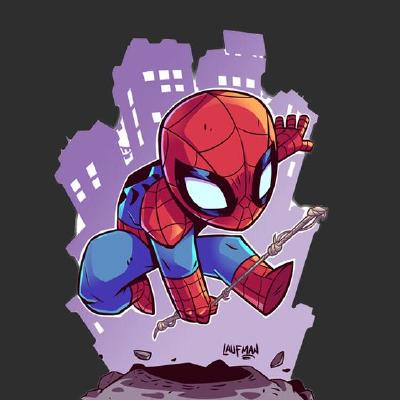
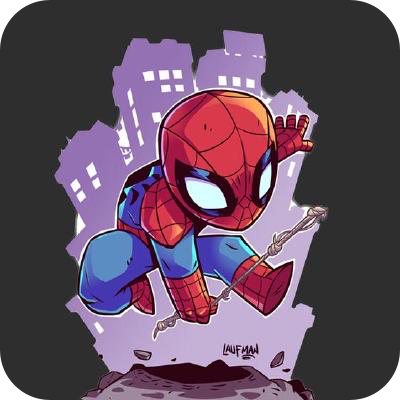
Site updated: 2018-12-18 21:32:00

diff --git a/2018/12/15/hello-world/index.html b/2018/12/15/hello-world/index.html
@@ -53,13 +53,13 @@
 <link href="/css/main.css?v=5.1.4" rel="stylesheet" type="text/css">
 
 
-  <link rel="apple-touch-icon" sizes="180x180" href="/images/riversea2015.png?v=5.1.4">
+  <link rel="apple-touch-icon" sizes="180x180" href="/images/riversea2015_corner.png?v=5.1.4">
 
 
-  <link rel="icon" type="image/png" sizes="32x32" href="/images/riversea2015.png?v=5.1.4">
+  <link rel="icon" type="image/png" sizes="32x32" href="/images/riversea2015_corner.png?v=5.1.4">
 
 
-  <link rel="icon" type="image/png" sizes="16x16" href="/images/riversea2015.png?v=5.1.4">
+  <link rel="icon" type="image/png" sizes="16x16" href="/images/riversea2015_corner.png?v=5.1.4">
 
 
 

diff --git a/2018/12/16/MBProgressHUD-源码学习笔记/index.html b/2018/12/16/MBProgressHUD-源码学习笔记/index.html
@@ -53,13 +53,13 @@
 <link href="/css/main.css?v=5.1.4" rel="stylesheet" type="text/css">
 
 
-  <link rel="apple-touch-icon" sizes="180x180" href="/images/riversea2015.png?v=5.1.4">
+  <link rel="apple-touch-icon" sizes="180x180" href="/images/riversea2015_corner.png?v=5.1.4">
 
 
-  <link rel="icon" type="image/png" sizes="32x32" href="/images/riversea2015.png?v=5.1.4">
+  <link rel="icon" type="image/png" sizes="32x32" href="/images/riversea2015_corner.png?v=5.1.4">
 
 
-  <link rel="icon" type="image/png" sizes="16x16" href="/images/riversea2015.png?v=5.1.4">
+  <link rel="icon" type="image/png" sizes="16x16" href="/images/riversea2015_corner.png?v=5.1.4">
 
 
 

diff --git a/2018/12/16/SDWebImage-源码学习笔记·前传-☞-升级-4-x-x-后适配-WebP-GIF/index.html b/2018/12/16/SDWebImage-源码学习笔记·前传-☞-升级-4-x-x-后适配-WebP-GIF/index.html
@@ -53,13 +53,13 @@
 <link href="/css/main.css?v=5.1.4" rel="stylesheet" type="text/css">
 
 
-  <link rel="apple-touch-icon" sizes="180x180" href="/images/riversea2015.png?v=5.1.4">
+  <link rel="apple-touch-icon" sizes="180x180" href="/images/riversea2015_corner.png?v=5.1.4">
 
 
-  <link rel="icon" type="image/png" sizes="32x32" href="/images/riversea2015.png?v=5.1.4">
+  <link rel="icon" type="image/png" sizes="32x32" href="/images/riversea2015_corner.png?v=5.1.4">
 
 
-  <link rel="icon" type="image/png" sizes="16x16" href="/images/riversea2015.png?v=5.1.4">
+  <link rel="icon" type="image/png" sizes="16x16" href="/images/riversea2015_corner.png?v=5.1.4">
 
 
 

diff --git a/2018/12/16/SDWebImage源码学习笔记-☞-SDImageCache/index.html b/2018/12/16/SDWebImage源码学习笔记-☞-SDImageCache/index.html
@@ -53,13 +53,13 @@
 <link href="/css/main.css?v=5.1.4" rel="stylesheet" type="text/css">
 
 
-  <link rel="apple-touch-icon" sizes="180x180" href="/images/riversea2015.png?v=5.1.4">
+  <link rel="apple-touch-icon" sizes="180x180" href="/images/riversea2015_corner.png?v=5.1.4">
 
 
-  <link rel="icon" type="image/png" sizes="32x32" href="/images/riversea2015.png?v=5.1.4">
+  <link rel="icon" type="image/png" sizes="32x32" href="/images/riversea2015_corner.png?v=5.1.4">
 
 
-  <link rel="icon" type="image/png" sizes="16x16" href="/images/riversea2015.png?v=5.1.4">
+  <link rel="icon" type="image/png" sizes="16x16" href="/images/riversea2015_corner.png?v=5.1.4">
 
 
 

diff --git a/2018/12/16/SDWebImage源码学习笔记-☞-SDWebImageDownloader/index.html b/2018/12/16/SDWebImage源码学习笔记-☞-SDWebImageDownloader/index.html
@@ -53,13 +53,13 @@
 <link href="/css/main.css?v=5.1.4" rel="stylesheet" type="text/css">
 
 
-  <link rel="apple-touch-icon" sizes="180x180" href="/images/riversea2015.png?v=5.1.4">
+  <link rel="apple-touch-icon" sizes="180x180" href="/images/riversea2015_corner.png?v=5.1.4">
 
 
-  <link rel="icon" type="image/png" sizes="32x32" href="/images/riversea2015.png?v=5.1.4">
+  <link rel="icon" type="image/png" sizes="32x32" href="/images/riversea2015_corner.png?v=5.1.4">
 
 
-  <link rel="icon" type="image/png" sizes="16x16" href="/images/riversea2015.png?v=5.1.4">
+  <link rel="icon" type="image/png" sizes="16x16" href="/images/riversea2015_corner.png?v=5.1.4">
 
 
 

diff --git a/2018/12/16/SDWebImage源码学习笔记-☞-SDWebImageManager/index.html b/2018/12/16/SDWebImage源码学习笔记-☞-SDWebImageManager/index.html
@@ -53,13 +53,13 @@
 <link href="/css/main.css?v=5.1.4" rel="stylesheet" type="text/css">
 
 
-  <link rel="apple-touch-icon" sizes="180x180" href="/images/riversea2015.png?v=5.1.4">
+  <link rel="apple-touch-icon" sizes="180x180" href="/images/riversea2015_corner.png?v=5.1.4">
 
 
-  <link rel="icon" type="image/png" sizes="32x32" href="/images/riversea2015.png?v=5.1.4">
+  <link rel="icon" type="image/png" sizes="32x32" href="/images/riversea2015_corner.png?v=5.1.4">
 
 
-  <link rel="icon" type="image/png" sizes="16x16" href="/images/riversea2015.png?v=5.1.4">
+  <link rel="icon" type="image/png" sizes="16x16" href="/images/riversea2015_corner.png?v=5.1.4">
 
 
 

diff --git a/2018/12/16/SDWebImage源码学习笔记-☞-结构及基本流程/index.html b/2018/12/16/SDWebImage源码学习笔记-☞-结构及基本流程/index.html
@@ -53,13 +53,13 @@
 <link href="/css/main.css?v=5.1.4" rel="stylesheet" type="text/css">
 
 
-  <link rel="apple-touch-icon" sizes="180x180" href="/images/riversea2015.png?v=5.1.4">
+  <link rel="apple-touch-icon" sizes="180x180" href="/images/riversea2015_corner.png?v=5.1.4">
 
 
-  <link rel="icon" type="image/png" sizes="32x32" href="/images/riversea2015.png?v=5.1.4">
+  <link rel="icon" type="image/png" sizes="32x32" href="/images/riversea2015_corner.png?v=5.1.4">
 
 
-  <link rel="icon" type="image/png" sizes="16x16" href="/images/riversea2015.png?v=5.1.4">
+  <link rel="icon" type="image/png" sizes="16x16" href="/images/riversea2015_corner.png?v=5.1.4">
 
 
 

diff --git a/2018/12/17/AFNetWorking-源码学习笔记-☞-NSURLSession/index.html b/2018/12/17/AFNetWorking-源码学习笔记-☞-NSURLSession/index.html
@@ -53,13 +53,13 @@
 <link href="/css/main.css?v=5.1.4" rel="stylesheet" type="text/css">
 
 
-  <link rel="apple-touch-icon" sizes="180x180" href="/images/riversea2015.png?v=5.1.4">
+  <link rel="apple-touch-icon" sizes="180x180" href="/images/riversea2015_corner.png?v=5.1.4">
 
 
-  <link rel="icon" type="image/png" sizes="32x32" href="/images/riversea2015.png?v=5.1.4">
+  <link rel="icon" type="image/png" sizes="32x32" href="/images/riversea2015_corner.png?v=5.1.4">
 
 
-  <link rel="icon" type="image/png" sizes="16x16" href="/images/riversea2015.png?v=5.1.4">
+  <link rel="icon" type="image/png" sizes="16x16" href="/images/riversea2015_corner.png?v=5.1.4">
 
 
 

diff --git a/2018/12/17/AFNetWorking-源码学习笔记-☞-Reachability/index.html b/2018/12/17/AFNetWorking-源码学习笔记-☞-Reachability/index.html
@@ -53,13 +53,13 @@
 <link href="/css/main.css?v=5.1.4" rel="stylesheet" type="text/css">
 
 
-  <link rel="apple-touch-icon" sizes="180x180" href="/images/riversea2015.png?v=5.1.4">
+  <link rel="apple-touch-icon" sizes="180x180" href="/images/riversea2015_corner.png?v=5.1.4">
 
 
-  <link rel="icon" type="image/png" sizes="32x32" href="/images/riversea2015.png?v=5.1.4">
+  <link rel="icon" type="image/png" sizes="32x32" href="/images/riversea2015_corner.png?v=5.1.4">
 
 
-  <link rel="icon" type="image/png" sizes="16x16" href="/images/riversea2015.png?v=5.1.4">
+  <link rel="icon" type="image/png" sizes="16x16" href="/images/riversea2015_corner.png?v=5.1.4">
 
 
 

diff --git a/2018/12/17/AFNetWorking-源码学习笔记-☞-Security/index.html b/2018/12/17/AFNetWorking-源码学习笔记-☞-Security/index.html
@@ -53,13 +53,13 @@
 <link href="/css/main.css?v=5.1.4" rel="stylesheet" type="text/css">
 
 
-  <link rel="apple-touch-icon" sizes="180x180" href="/images/riversea2015.png?v=5.1.4">
+  <link rel="apple-touch-icon" sizes="180x180" href="/images/riversea2015_corner.png?v=5.1.4">
 
 
-  <link rel="icon" type="image/png" sizes="32x32" href="/images/riversea2015.png?v=5.1.4">
+  <link rel="icon" type="image/png" sizes="32x32" href="/images/riversea2015_corner.png?v=5.1.4">
 
 
-  <link rel="icon" type="image/png" sizes="16x16" href="/images/riversea2015.png?v=5.1.4">
+  <link rel="icon" type="image/png" sizes="16x16" href="/images/riversea2015_corner.png?v=5.1.4">
 
 
 

diff --git a/2018/12/17/AFNetWorking-源码学习笔记-☞-Serialization/index.html b/2018/12/17/AFNetWorking-源码学习笔记-☞-Serialization/index.html
@@ -53,13 +53,13 @@
 <link href="/css/main.css?v=5.1.4" rel="stylesheet" type="text/css">
 
 
-  <link rel="apple-touch-icon" sizes="180x180" href="/images/riversea2015.png?v=5.1.4">
+  <link rel="apple-touch-icon" sizes="180x180" href="/images/riversea2015_corner.png?v=5.1.4">
 
 
-  <link rel="icon" type="image/png" sizes="32x32" href="/images/riversea2015.png?v=5.1.4">
+  <link rel="icon" type="image/png" sizes="32x32" href="/images/riversea2015_corner.png?v=5.1.4">
 
 
-  <link rel="icon" type="image/png" sizes="16x16" href="/images/riversea2015.png?v=5.1.4">
+  <link rel="icon" type="image/png" sizes="16x16" href="/images/riversea2015_corner.png?v=5.1.4">
 
 
 

diff --git a/2018/12/17/AFNetWorking-源码学习笔记-☞-主体流程/index.html b/2018/12/17/AFNetWorking-源码学习笔记-☞-主体流程/index.html
@@ -53,13 +53,13 @@
 <link href="/css/main.css?v=5.1.4" rel="stylesheet" type="text/css">
 
 
-  <link rel="apple-touch-icon" sizes="180x180" href="/images/riversea2015.png?v=5.1.4">
+  <link rel="apple-touch-icon" sizes="180x180" href="/images/riversea2015_corner.png?v=5.1.4">
 
 
-  <link rel="icon" type="image/png" sizes="32x32" href="/images/riversea2015.png?v=5.1.4">
+  <link rel="icon" type="image/png" sizes="32x32" href="/images/riversea2015_corner.png?v=5.1.4">
 
 
-  <link rel="icon" type="image/png" sizes="16x16" href="/images/riversea2015.png?v=5.1.4">
+  <link rel="icon" type="image/png" sizes="16x16" href="/images/riversea2015_corner.png?v=5.1.4">
 
 
 
